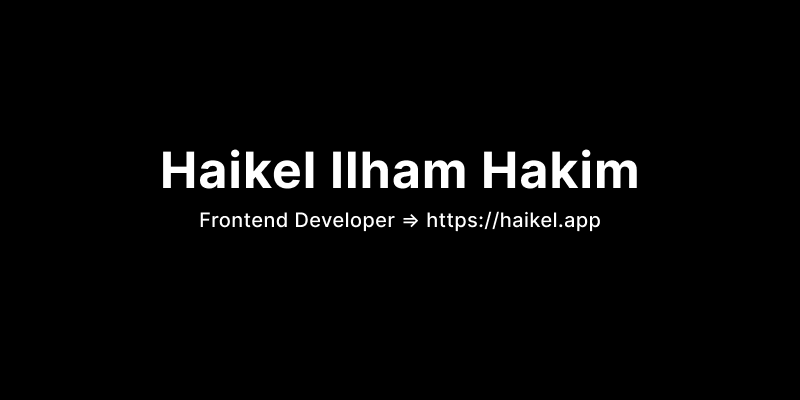
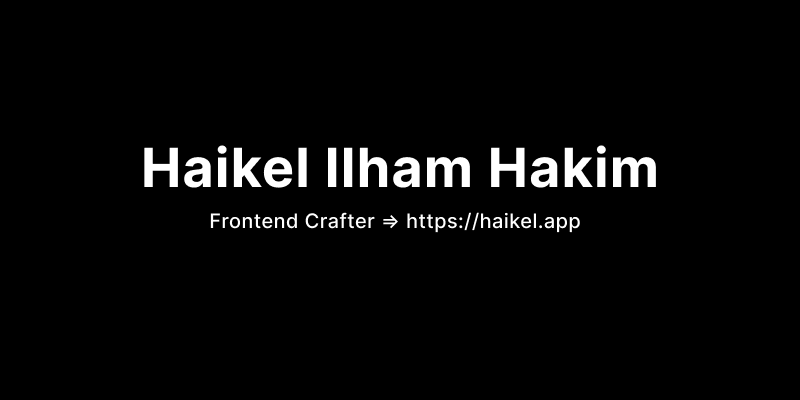
feat(works): add new work

Changed region(s): [[0.1562, 0.36, 0.8438, 0.48], [0.25, 0.51, 0.75, 0.57]]

diff --git a/src/app/api/og/route.tsx b/src/app/api/og/route.tsx
@@ -8,7 +8,7 @@ export async function GET(req: NextRequest) {
     const { searchParams } = new URL(req.nextUrl);
 
     const hasTitle = searchParams.has("title");
-    const title = hasTitle ? searchParams.get("title")?.slice(0, 100) : "Frontend Developer";
+    const title = hasTitle ? searchParams.get("title")?.slice(0, 100) : "Frontend Crafter";
 
     return new ImageResponse(
       (
@@ -23,50 +23,23 @@ export async function GET(req: NextRequest) {
             backgroundColor: "#000000",
           }}
         >
-          <div
-            style={{
-              display: "flex",
-              justifyContent: "center",
-              alignItems: "center",
-              top: 35,
-              color: "white",
-              fontWeight: "700",
-              left: 35,
-              position: "absolute",
-            }}
-          >
-            <img
-              style={{ borderRadius: "100%" }}
-              width={28}
-              height={28}
-              src="https://avatars.githubusercontent.com/u/77146709?v=4"
-              alt="Github Profile"
-            />
-            <span
-              style={{
-                marginLeft: 8,
-                fontSize: 20,
-                textAlign: "center",
-              }}
-            >
-              haikel.app
-            </span>
-          </div>
-          <div
+          <span
             style={{
               fontWeight: 700,
               color: "#000000",
               fontSize: 30,
               padding: "0px 5px",
               fontFamily: "sans-serif",
+              marginLeft: 8,
+              textAlign: "center",
               background: "#FFFFFF",
             }}
           >
-            ハキム
-          </div>
+            haikel.app
+          </span>
           <div
             style={{
-              marginTop: 15,
+              marginTop: 10,
               fontSize: 20,
               color: "white",
               textAlign: "center",

diff --git a/src/app/guestbook/page.tsx b/src/app/guestbook/page.tsx
@@ -1,7 +1,8 @@
+import { format } from "date-fns/esm";
 import { cxm } from "~lib/helpers";
 import { DEFAULT_OG_URL, SITE_URL } from "~lib/utils/constants";
 import db from "~lib/utils/db";
-import { GuestsList } from "~ui/lists";
+import { spaceGrotesk } from "~lib/utils/fonts";
 import Main from "~ui/main";
 import { Paragraph } from "~ui/typography";
 
@@ -67,7 +68,27 @@ export default async function Guestbook() {
       <GuestbookClient />
       {guestbook?.length ? (
         <section className="mb-10 flex w-full flex-col space-y-8">
-          <GuestsList guestbook={guestbook} />
+          {guestbook?.map((guest) => (
+            <div key={guest.id} className="h-full">
+              <div>
+                <span
+                  className={cxm(
+                    "cursor-pointer text-xl font-bold",
+                    "hover:text-blue-500",
+                    spaceGrotesk.className
+                  )}
+                >
+                  {guest.message}
+                </span>
+              </div>
+              <Paragraph className="mt-2 font-medium tracking-wide">
+                {guest.username}
+                {guest.created_at !== ""
+                  ? `. ${format(new Date(guest.created_at), "LLLL d, yyyy")}`
+                  : null}
+              </Paragraph>
+            </div>
+          ))}
         </section>
       ) : (
         <Paragraph className="font-semibold">There is no messages now!</Paragraph>

diff --git a/src/app/rss.xml/route.ts b/src/app/rss.xml/route.ts
@@ -1,15 +1,10 @@
-import { format } from "date-fns/esm";
-import { writeFileSync } from "fs";
 import RSS, { FeedOptions } from "rss";
-
-import { getAllNotes } from "./get-all-notes";
+import { getAllNotes } from "~lib/services";
 
 /**
- * @see https://blog.logrocket.com/adding-rss-feed-next-js-app/
+ * @see https://www.jovertical.dev/articles/rss-feed-in-next-js-13-app-router
  */
-export async function generateRssFeed() {
-  const currentYear = format(new Date(), "yyyy");
-
+export async function GET() {
   const feedOptions: FeedOptions = {
     title: "haikel.app",
     description: `RSS Feed for haikel.app`,
@@ -17,12 +12,12 @@ export async function generateRssFeed() {
     feed_url: `https://haikel.app/rss.xml`,
     image_url: `https://haikel.app/img/logo.png`,
     pubDate: new Date(),
-    copyright: `2020-${currentYear} Haikel Ilham Hakim`,
+    copyright: `Crafted by Haikel`,
   };
 
   const feed = new RSS(feedOptions);
 
-  getAllNotes().map(({ meta }) => {
+  getAllNotes().forEach(({ meta }) => {
     feed.item({
       author: meta.author,
       title: meta.title,
@@ -32,5 +27,10 @@ export async function generateRssFeed() {
     });
   });
 
-  writeFileSync("./public/rss.xml", feed.xml({ indent: true }));
+  return new Response(feed.xml({ indent: true }), {
+    status: 200,
+    headers: {
+      "Content-Type": "application/xml",
+    },
+  });
 }

diff --git a/src/components/ui/footer.tsx b/src/components/ui/footer.tsx
@@ -15,7 +15,7 @@ const socialMediaList = [
   { id: 1, icon: IconMail, route: "mailto:halo@haikel.app" },
   { id: 2, icon: IconRss, route: "https://haikel.app/rss.xml" },
   { id: 3, icon: IconBrandFacebook, route: "https://facebook.com/kelgfx" },
-  { id: 4, icon: IconBrandInstagram, route: "https://instagram.com/whykelz_" },
+  { id: 4, icon: IconBrandInstagram, route: "https://instagram.com/ekel.tsx" },
   { id: 5, icon: IconBrandGithub, route: "https://github.com/haikelz" },
   { id: 6, icon: IconBrandLinkedin, route: "https://www.linkedin.com/in/haikel" },
 ];
@@ -39,9 +39,7 @@ export default function Footer() {
           "md:py-3 md:dark:border-t-gray-700"
         )}
       >
-        <p className="text-center text-sm font-bold md:text-left md:text-base">
-          2020-{currentYear} Haikel Ilham Hakim
-        </p>
+        <p className="text-center text-sm font-bold md:text-left md:text-base">Crafted by Haikel</p>
         <ul className="mt-3 flex items-center justify-center space-x-4 md:mt-0">
           {socialMediaList.map((item) => {
             const Icon = item.icon;

diff --git a/src/app/page.tsx b/src/app/page.tsx
@@ -1,5 +1,5 @@
 import { cxm } from "~lib/helpers";
-import { generateRssFeed, getAllNotes, getAllWorks } from "~lib/services";
+import { getAllNotes, getAllWorks } from "~lib/services";
 import { DEFAULT_OG_URL, SITE_URL } from "~lib/utils/constants";
 import { NoteMetaProps, WorkMetaProps } from "~models";
 import About from "~ui/about";
@@ -9,7 +9,7 @@ import { Heading, Underline, UnderlineLink } from "~ui/typography";
 
 const baseMetadata = {
   title: "Haikel Ilham Hakim",
-  description: "Frontend Developer",
+  description: "Frontend Crafter",
   url: SITE_URL,
 };
 
@@ -41,8 +41,6 @@ export const metadata = {
 };
 
 export default async function HomePage() {
-  generateRssFeed();
-
   const notes: NoteMetaProps[] = getAllNotes()
     .slice(0, 4)
     .map((note) => note.meta);

diff --git a/src/components/ui/svgs/index.ts b/src/components/ui/svgs/index.ts
@@ -2,7 +2,7 @@ export * from "./chakra-ui-icon";
 export * from "./facebook-icon";
 export * from "./framer-icon";
 export * from "./google-icon";
-export * from "./nestjs-icon";
+export * from "./nest-js-icon";
 export * from "./next-js-icon";
 export * from "./react-icon";
 export * from "./react-query-icon";

diff --git a/src/components/ui/lists/works-list.tsx b/src/components/ui/lists/works-list.tsx
@@ -18,7 +18,7 @@ import {
   WindiCssIcon,
 } from "~ui/svgs";
 
-import { Paragraph } from "../typography/paragraph";
+import { Paragraph } from "../typography";
 
 export function WorksList({ works }: { works: WorkMetaProps[] }) {
   return (

diff --git a/src/lib/services/index.ts b/src/lib/services/index.ts
@@ -3,4 +3,3 @@ export * from "./get-all-works";
 export * from "./get-note-from-slug";
 export * from "./get-slugs";
 export * from "./get-work-from-slug";
-export * from "./generate-rss-feed";

diff --git a/src/components/ui/lists/index.ts b/src/components/ui/lists/index.ts
@@ -1,3 +1,2 @@
-export * from "./guests-list";
 export * from "./notes-list";
 export * from "./works-list";
